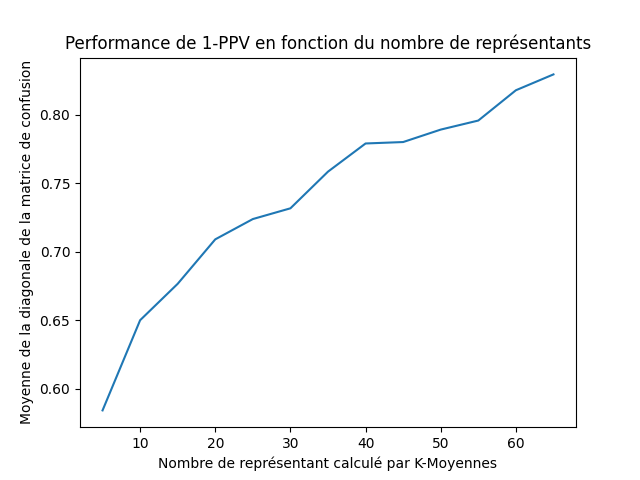
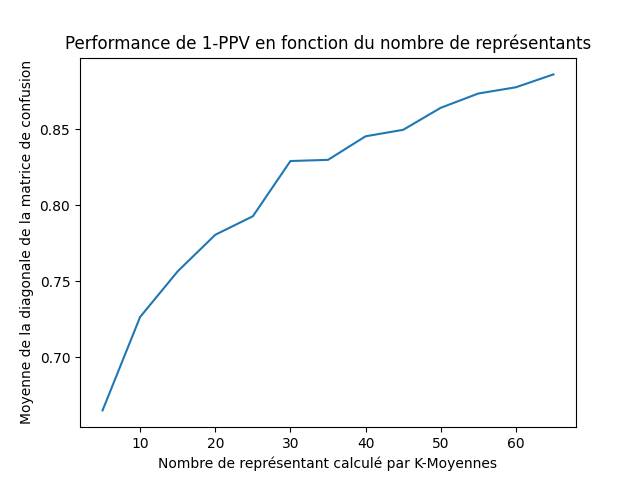
not reload params

diff --git a/src/classify_knn.py b/src/classify_knn.py
@@ -18,7 +18,7 @@ from src.visualization import plot_sub_params
 
 
 RELOAD_PARAMS = False
-PLOT_PERF_BY_N_REP = False
+PLOT_PERF_BY_N_REP = True
 
 sys.path.append('../')
 CDIR = os.path.dirname(os.path.realpath(__file__))
